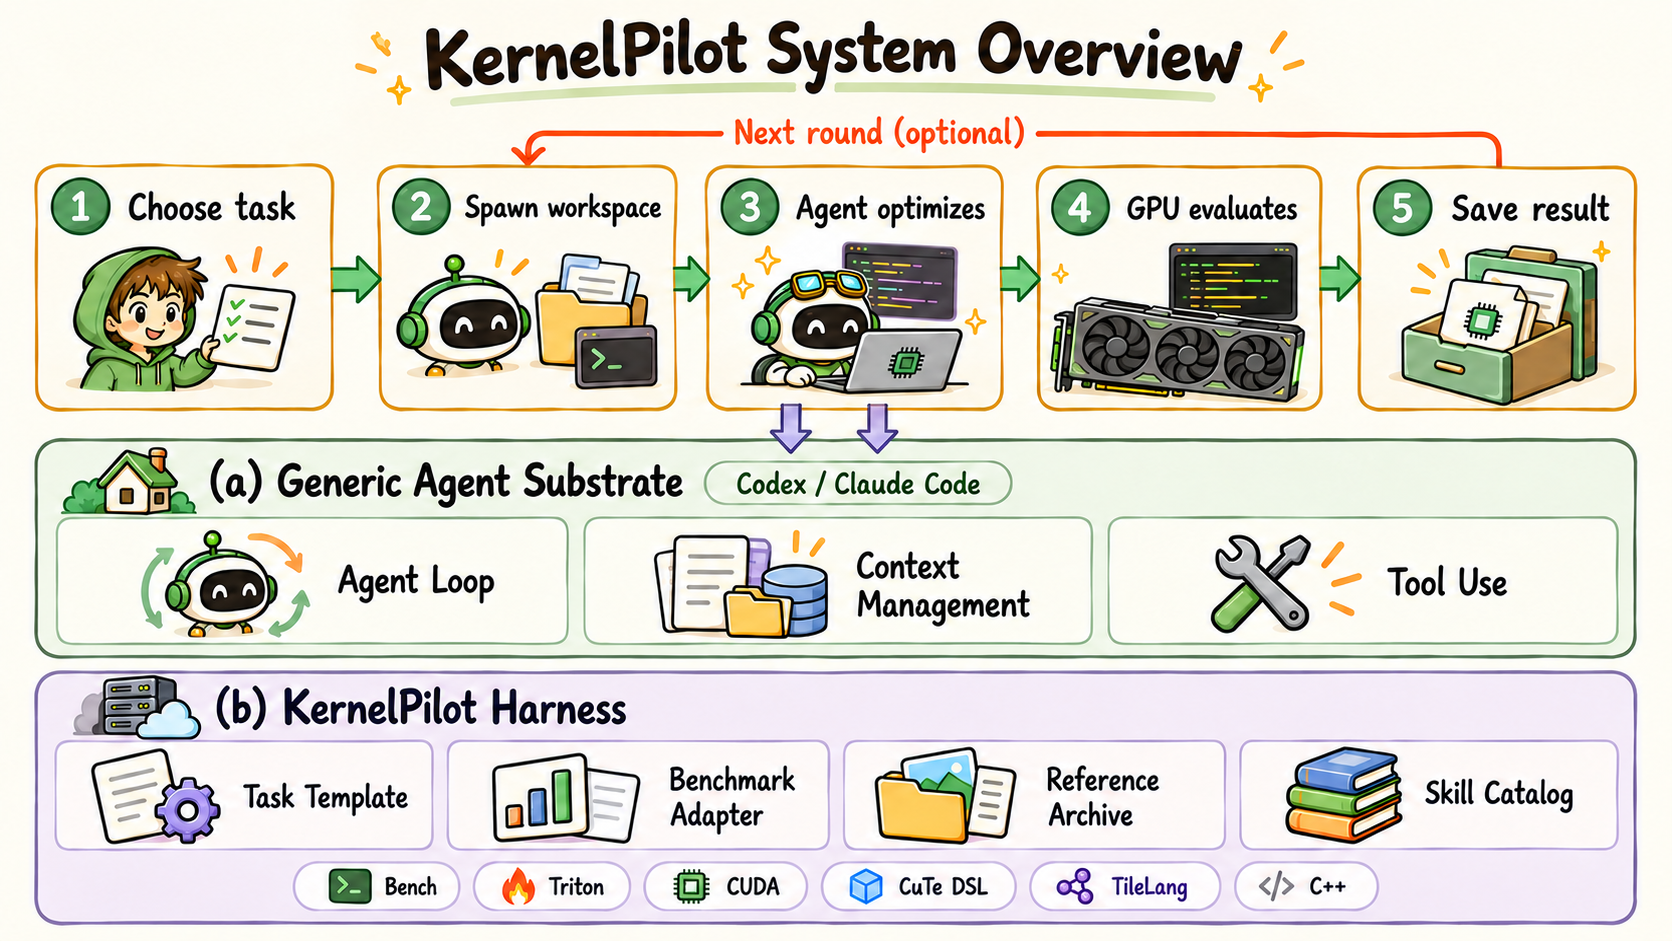
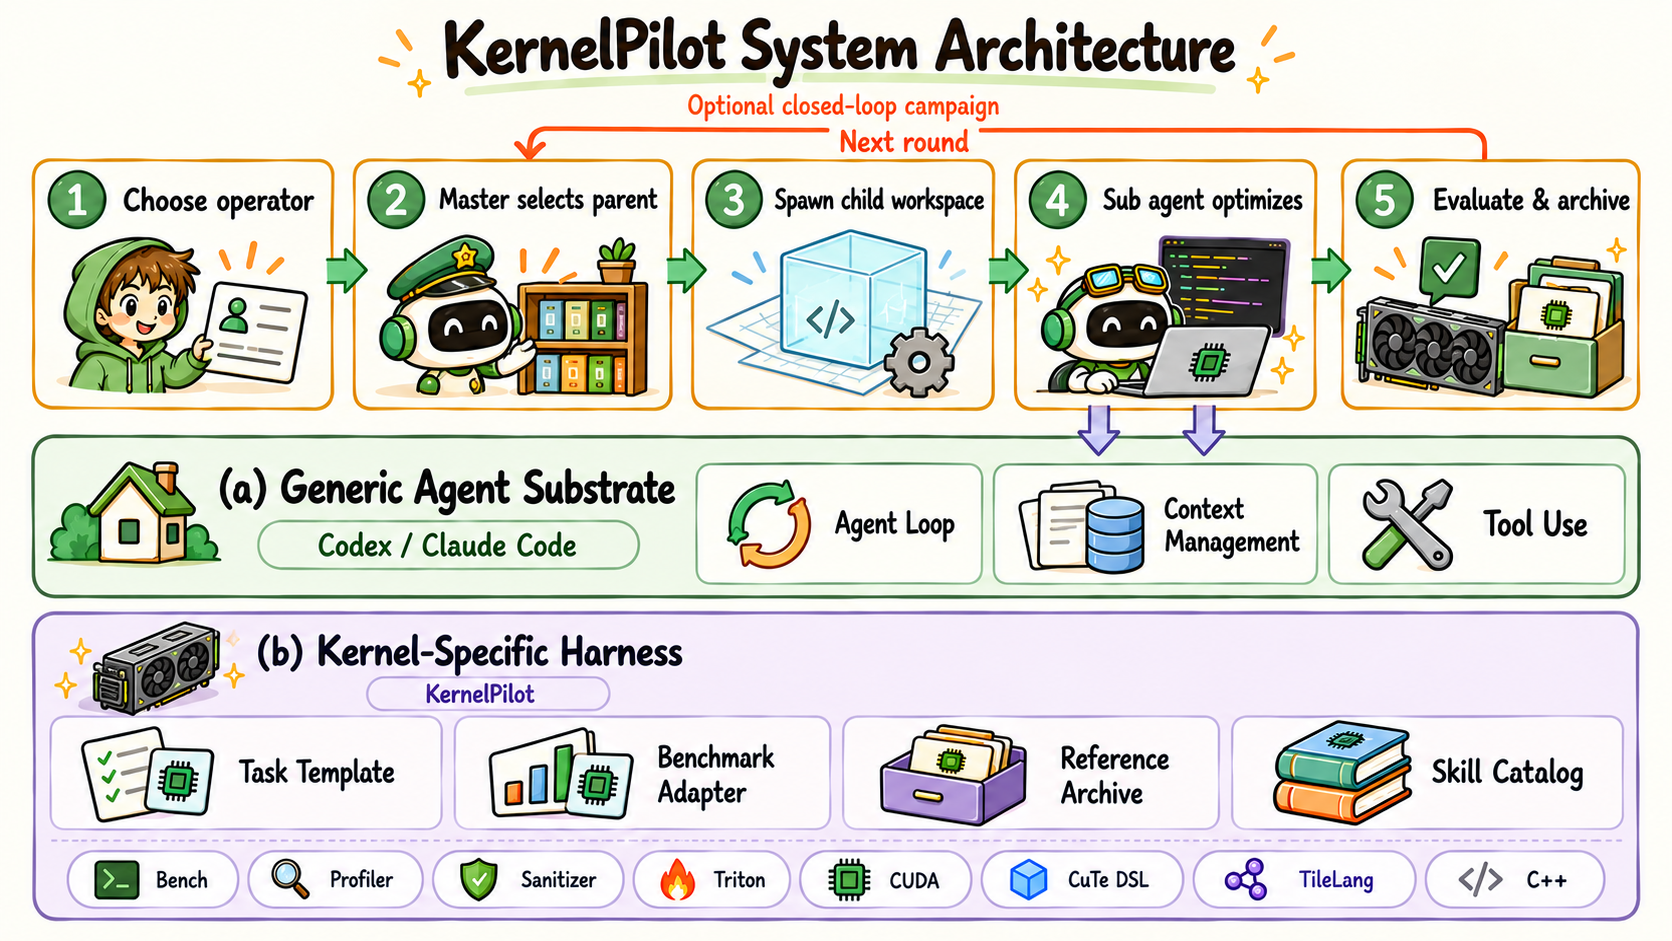
Clarify master and sub agent architecture

diff --git a/README.md b/README.md
@@ -6,13 +6,13 @@ The current workflow targets [KernelBench](https://github.com/ScalingIntelligenc
 
 ## System overview
 
-KernelPilot turns a benchmark task into an isolated workspace where a coding agent can develop a GPU kernel. Each evaluation checks correctness before measuring latency and records the exact candidate that was tested. The local WSL process manages the workspace; in the documented SSH setup, a remote GPU host runs the benchmark.
+KernelPilot supports a manual single-task workflow and an optional multi-round campaign. The diagram shows the campaign: a master agent selects a parent kernel, spawns an isolated child workspace, and drives a sub agent to optimize and evaluate candidates. Archived variants can seed later rounds.
 
-![KernelPilot system overview showing the optimization loop, generic agent substrate, and KernelPilot harness](docs/images/kernelpilot-system-overview.png)
+![KernelPilot architecture showing the master and sub agent loop, generic agent substrate, and kernel-specific harness](docs/images/kernelpilot-system-overview.png)
 
-Layer **(a)** is the selected coding agent's loop, context management, and tool use. Layer **(b)** is the KernelPilot harness: task templates, benchmark adapter, reference archive, and kernel-specific skills.
+The sub agent uses two layers: **(a) Generic Agent Substrate** supplies the agent loop, context management, and tool use through Codex or Claude Code; **(b) Kernel-Specific Harness** supplies KernelPilot's task template, benchmark adapter, reference archive, and skills for benchmarking, profiling, sanitization, and kernel languages.
 
-You can drive one workspace manually, as in the quick start below. For longer searches, the optional [closed-loop campaign](docs/closed-loop.md) creates fresh workspaces across rounds and carries forward a passing improvement.
+The [quick start](#quick-start) follows the manual path: you drive one child workspace directly and evaluate over SSH on a GPU host. See [closed-loop campaigns](docs/closed-loop.md) for the optional master/sub workflow.
 
 ## What is implemented
 
